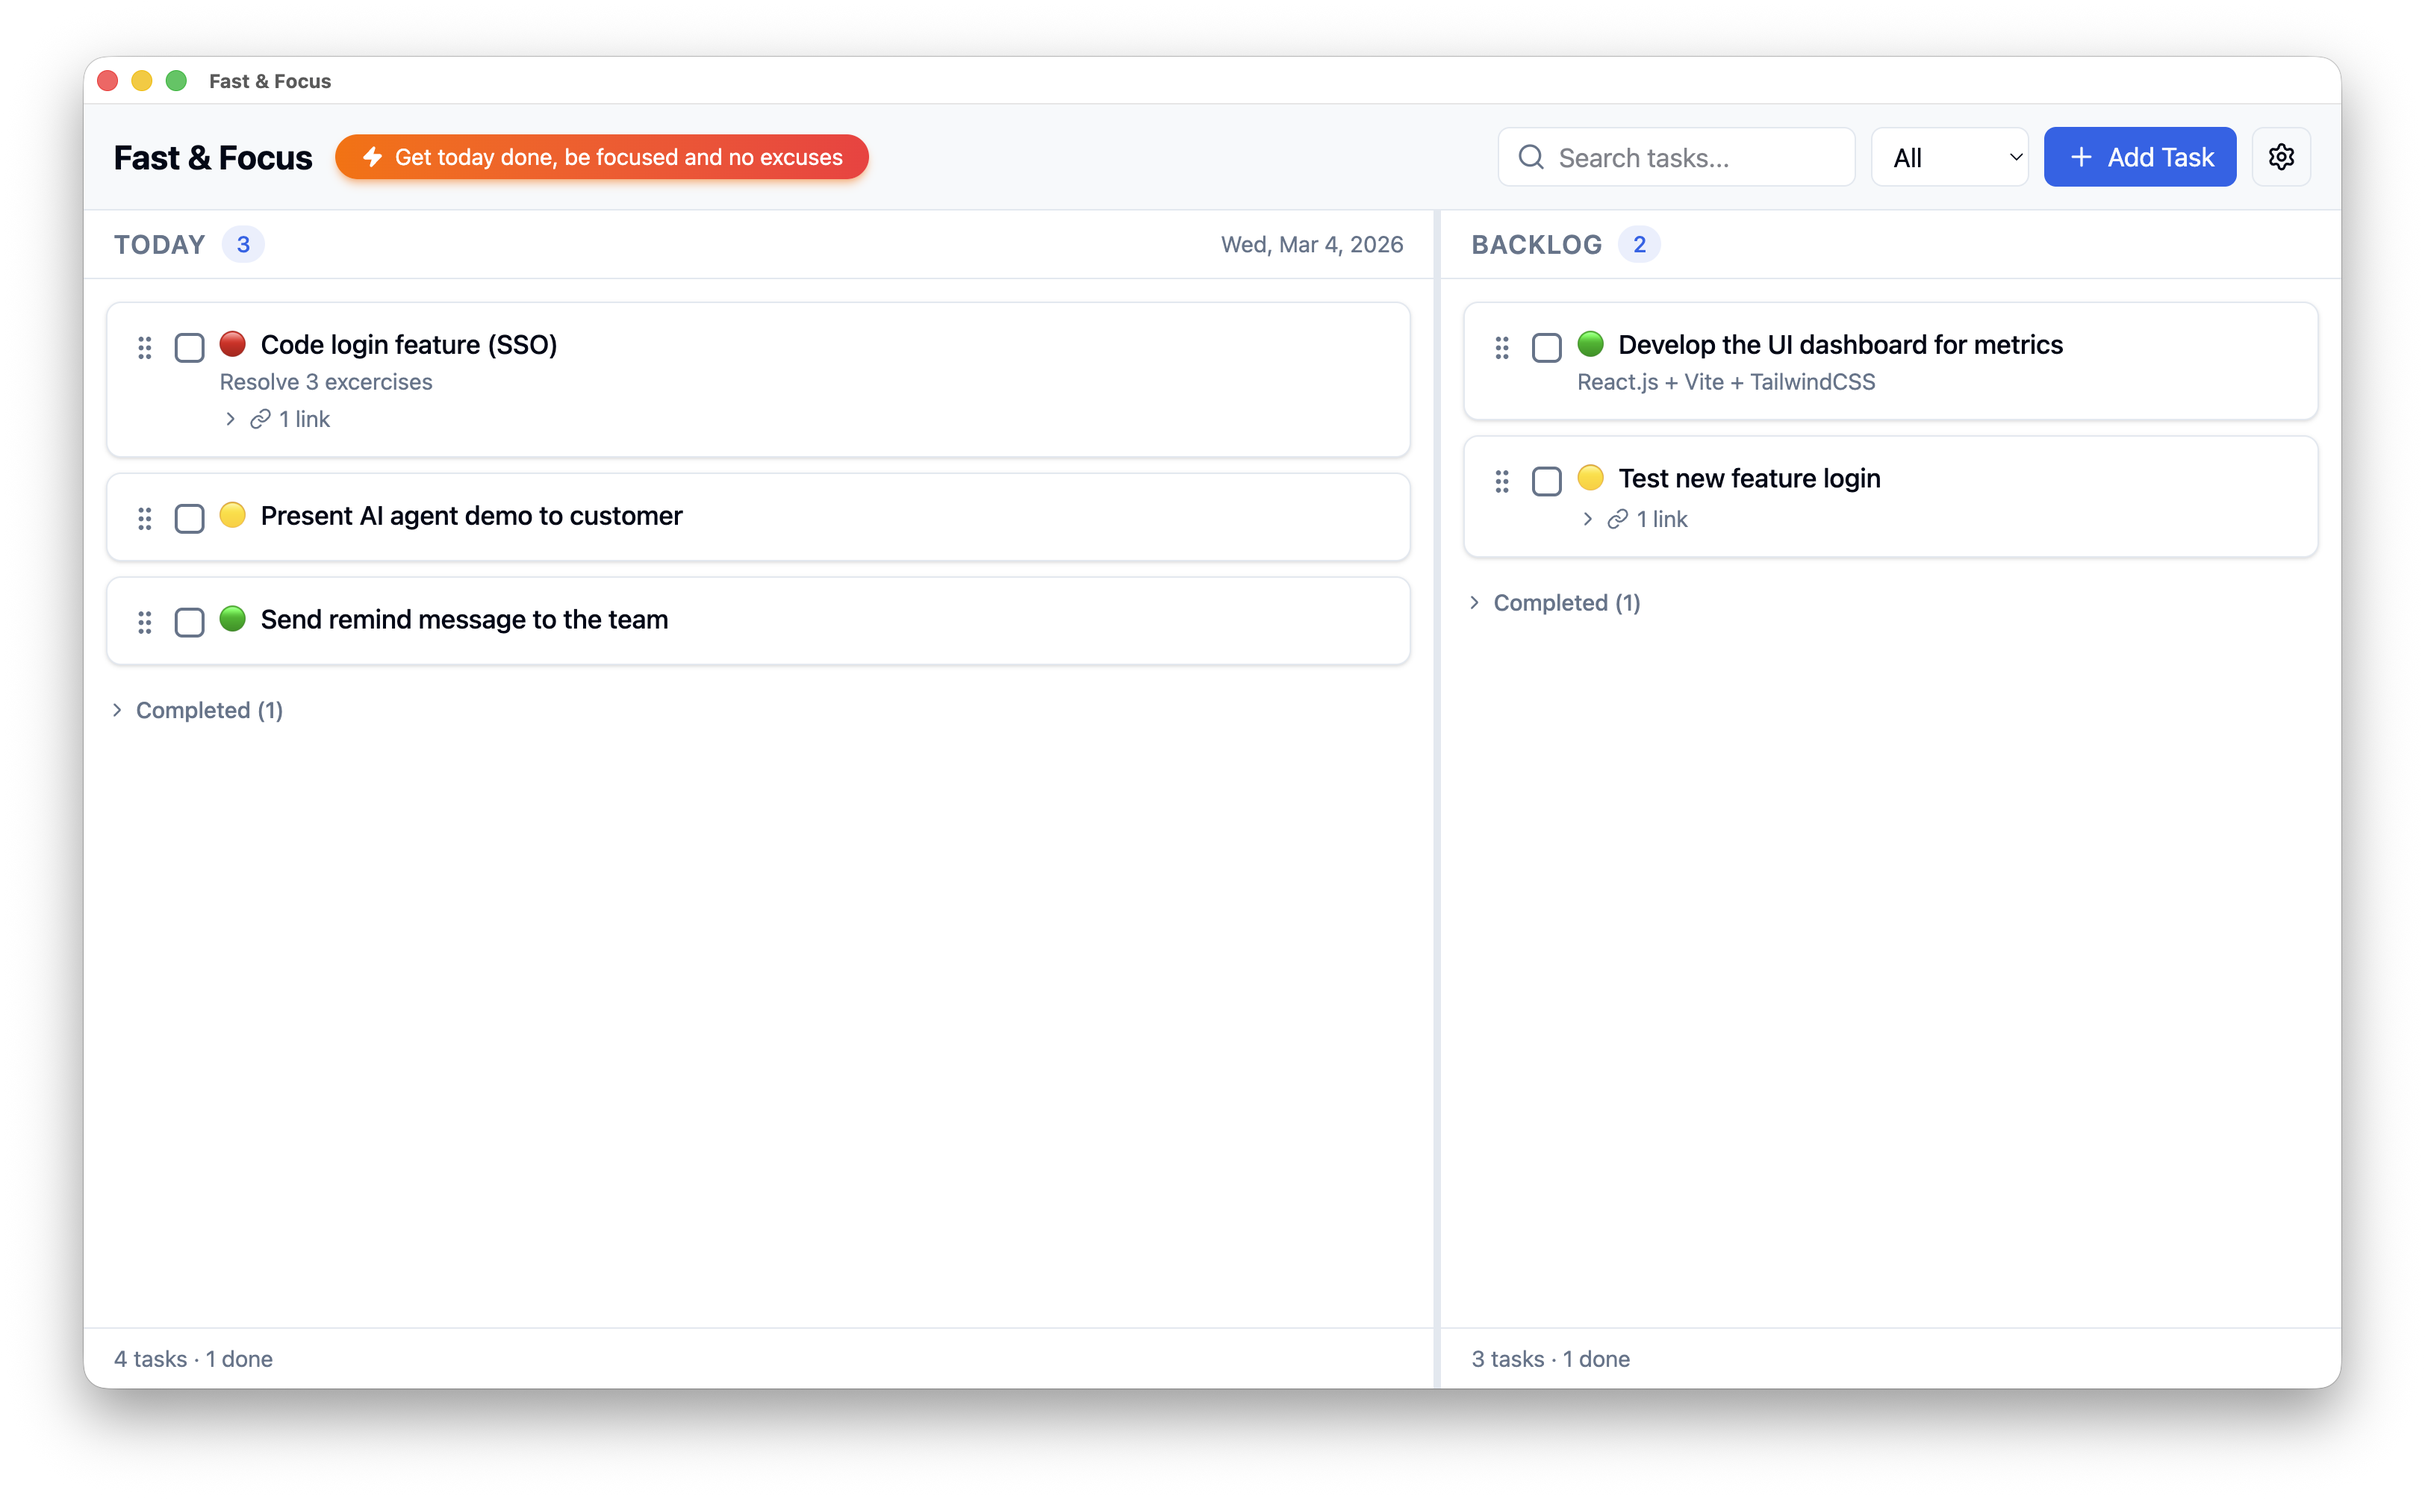
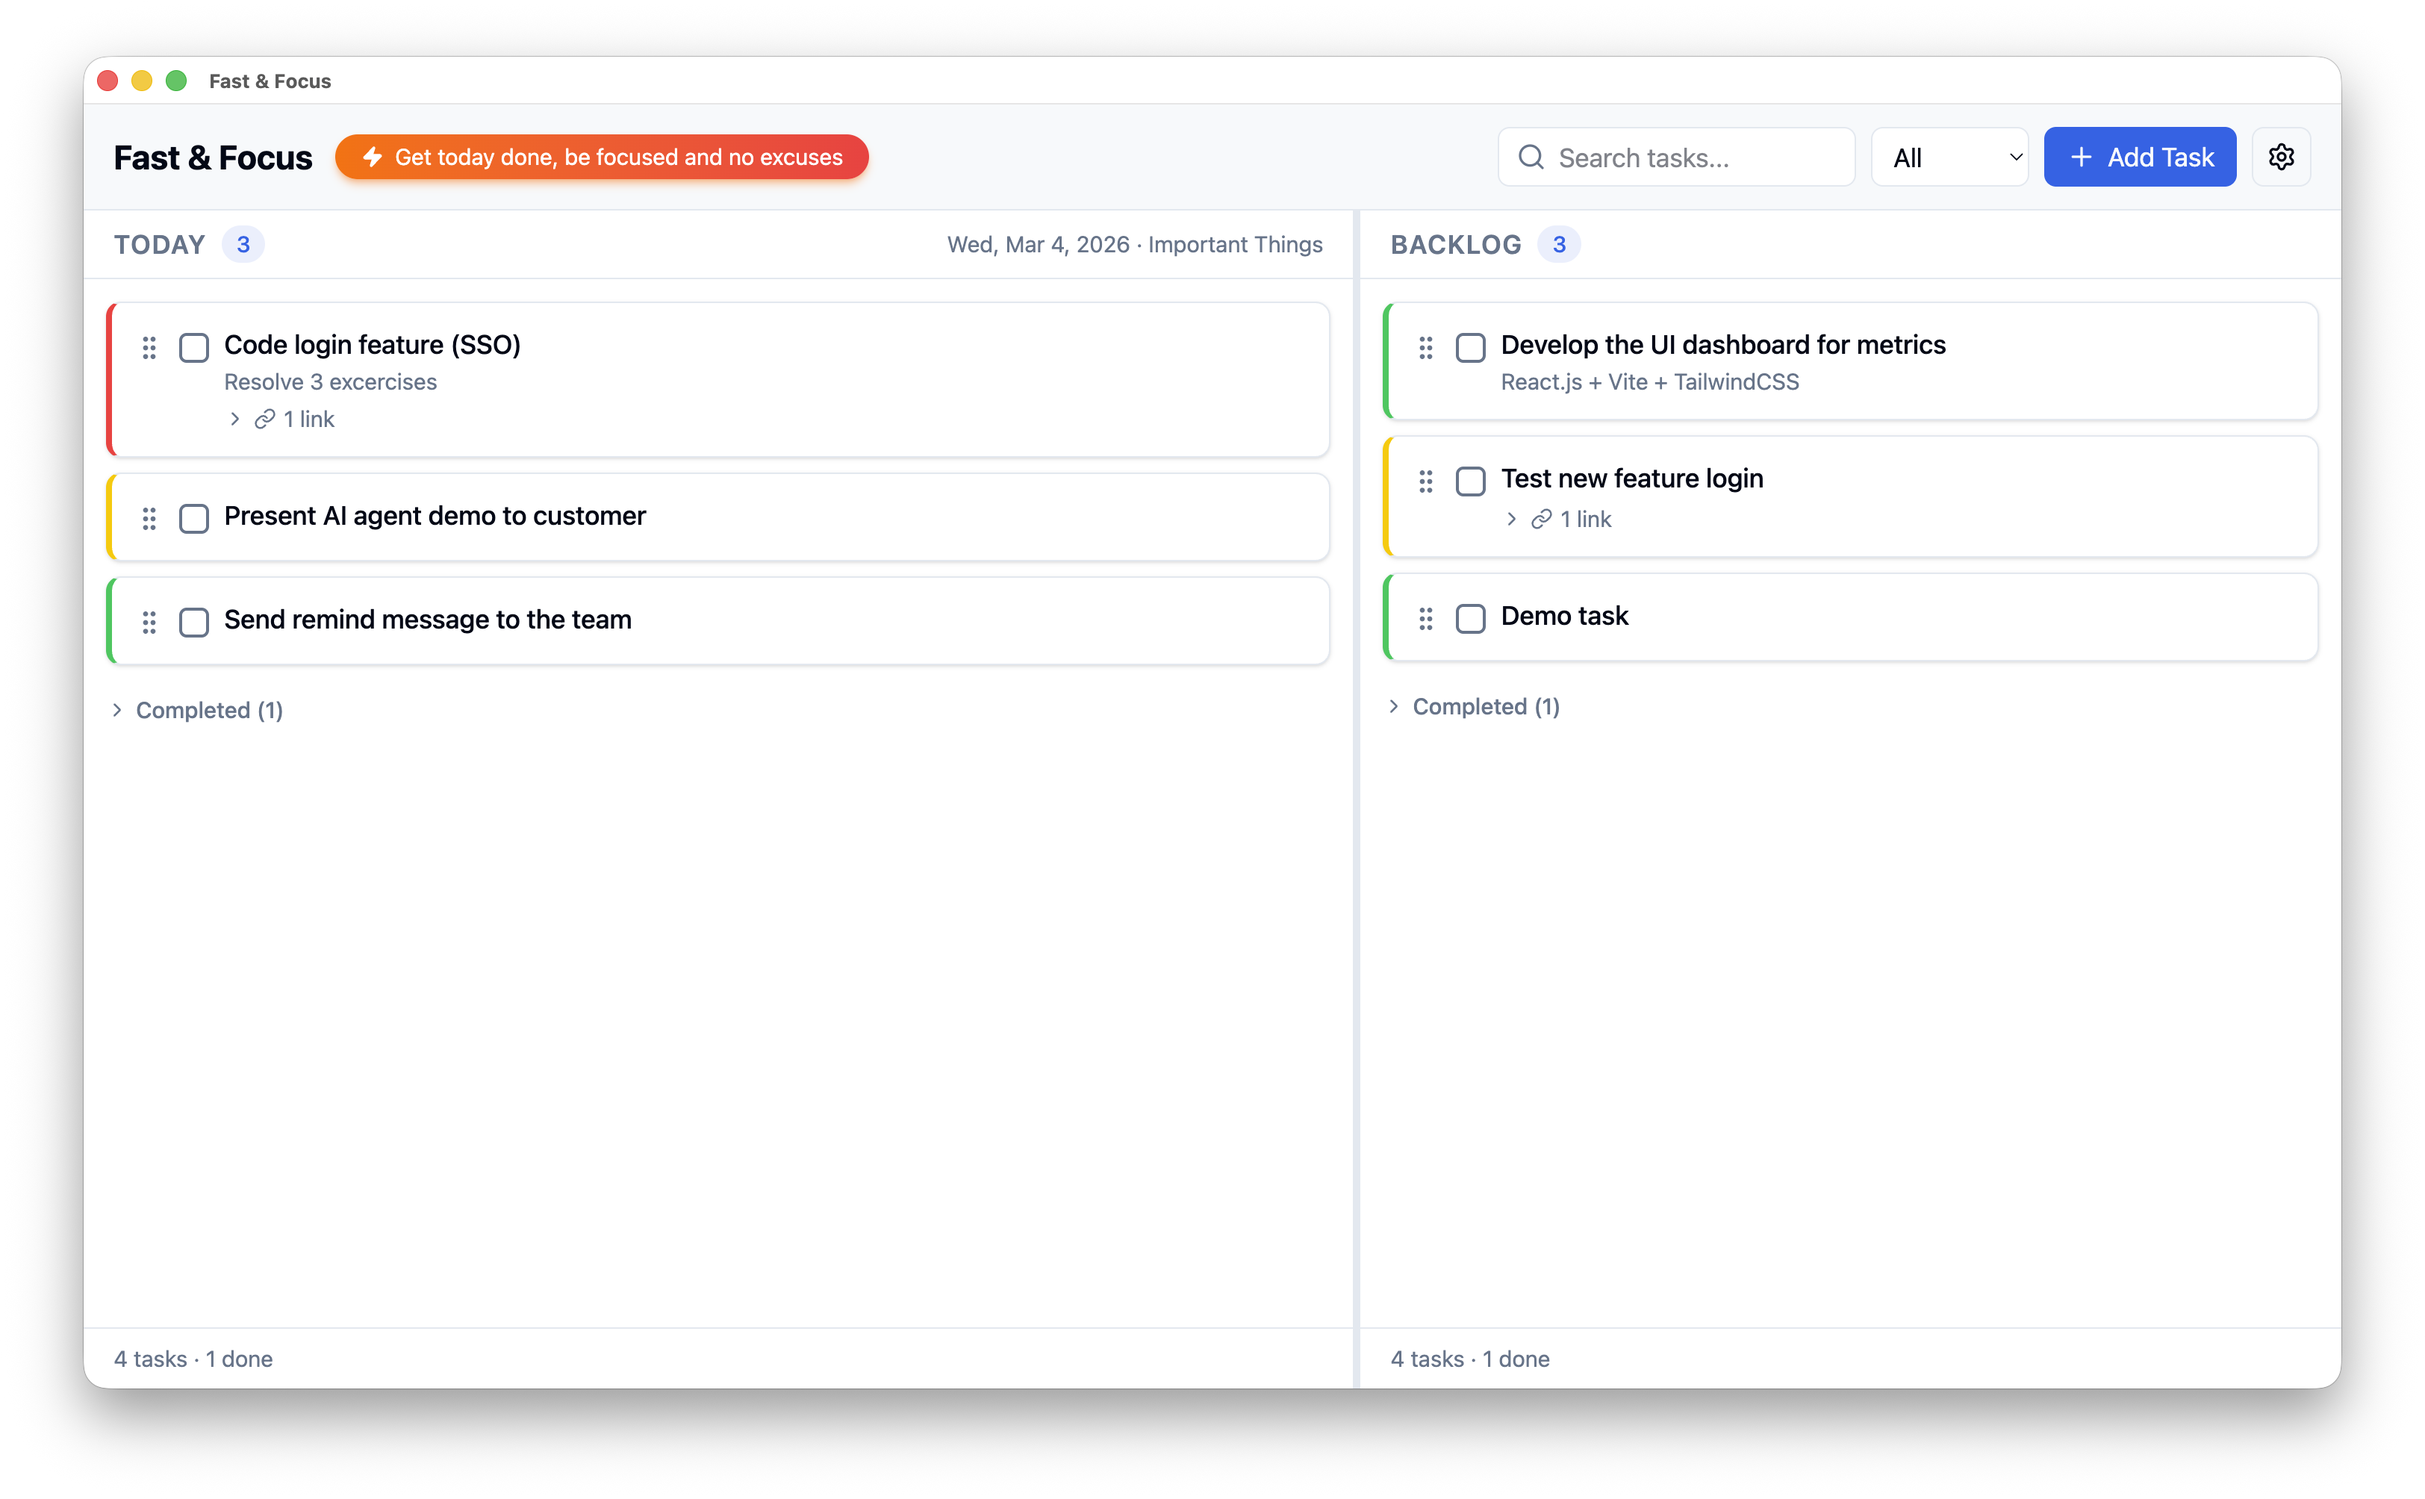
chore: update screenshot

diff --git a/src/components/BoardColumn.tsx b/src/components/BoardColumn.tsx
@@ -53,7 +53,7 @@ export function BoardColumn({ title, boardId, tasks, filter, onEdit, onLinkTask 
         </span>
         {boardId === 'today' && (
           <span className="ml-auto text-xs text-muted-foreground">
-            {new Date().toLocaleDateString(undefined, { weekday: 'short', month: 'short', day: 'numeric', year: 'numeric' })}
+            {new Date().toLocaleDateString(undefined, { weekday: 'short', month: 'short', day: 'numeric', year: 'numeric' })} · Important Things
           </span>
         )}
       </div>
